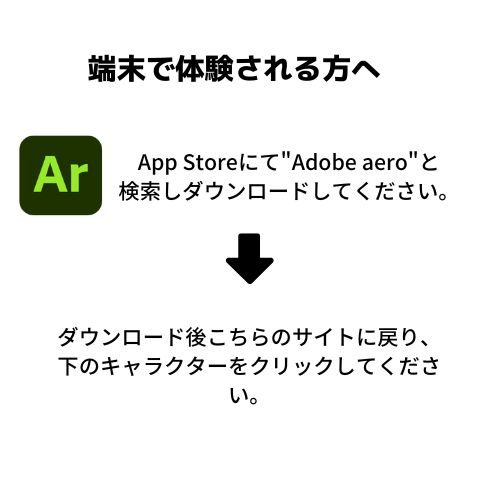
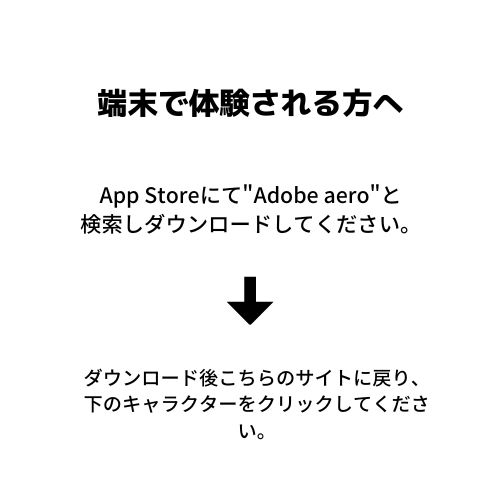
Add files via upload

Changed region(s): [[0.03, 0.27, 0.9, 0.87], [0.18, 0.09, 0.81, 0.24]]

diff --git a/index.html b/index.html
@@ -9,9 +9,14 @@
     <link rel="preconnect" href="https://fonts.googleapis.com">
     <link rel="preconnect" href="https://fonts.gstatic.com" crossorigin>
     <link href="https://fonts.googleapis.com/css2?family=Oswald:wght@300;400&display=swap" rel="stylesheet">
+    <script src="https://ajax.googleapis.com/ajax/libs/jquery/3.4.1/jquery.min.js"></script>
+
+
 
 </head>
 <body>
+
+
 
     <div class="header">
 
@@ -48,7 +53,7 @@
     <br>
 
     <div class="news2">
-        <h2>マルグリット祭　News</h2>
+        <h2>NEWS</h2>
     </div>
     
     
@@ -80,9 +85,9 @@
     <br>
     <br>
     <br>
+    <br>
     
-    
-    <h2>Service </h2>
+    <h2>SERVICE</h2>
     
 <div class="about">
 
@@ -90,7 +95,7 @@
     <li>
         <a href="Caritas Lab.mp4"><img src="Caritas web site .png" alt="crtsmovie"></a>
         <h3>MOVIE</h3>
-        <p>Caritas Lab紹介動画はこちら</p>
+        <p>Caritas Lab紹介動画はこちら<br>※音楽が流れます。ご注意ください。</p>
     </li>
 </ul>
 
@@ -122,9 +127,15 @@
 
 </div> 
 
+<br><br>
 
+<h2>FORM</h2>
+<p>サービスを利用しての感想、改善点等ありましたらこちらからお願い致します。 </p>
+<h2>
+    <iframe src="https://docs.google.com/forms/d/e/1FAIpQLSewcrHGvCPG4fc6I5-ez7jmZ9MfAmr7VI8Jm7R63BpW2TfLEQ/viewform?embedded=true" width="640" height="382" frameborder="0" marginheight="0" marginwidth="0" >読み込んでいます…</iframe>
+</h2>
 
-<br>
+<br><br>
 
 <div class="sakuseisya">
 <p>2022 CARITAS LAB. </p>

diff --git a/ARpage.html b/ARpage.html
@@ -13,16 +13,11 @@
     <br>
         <h2>英語室6にてカリタスのキャラクターを<br>ARにて体験する事が可能です。<br> 英語室6までのマップは<a href="https://caritaslab.github.io/startsite/map.html">こちら</a></h2>
 
-
-        <img src="shikiri.jpg" width="100%">
-
         <img src="AR.jpg" width="100%">
        
 <div class="about">
-
     <ul>
         <li>
-            <h3>↓るぱお↓</h3>
             <a href=""><img src="ha-to.jpg" alt="" width="100%"></a>
             
         </li>
@@ -31,14 +26,14 @@
     
     <ul>
             <li>
-            <h3>↓ひぐこ↓</h3>
+            
             <a href=""><img src="kuma.jpg" alt="AR" width="100%"></a>
              
     </ul>
 
     <ul>
         <li>
-        <h3>↓るぱお↓</h3>
+        
         <a href=""><img src="hiyoko.jpg" alt="AR" width="100%"></a>
      
 </ul>

diff --git a/ARpage.css b/ARpage.css
@@ -11,12 +11,12 @@ body{
 
 h1{
     text-align: center;
-    font-size:50px;
+    font-size:65px;
     font-family: 'Oswald', sans-serif;
     font-weight: normal;
     letter-spacing: 1px;
     line-height: 1.3;
-    color:rgb(51, 71, 139);
+    color:rgb(58, 66, 92);
   
     
 }
@@ -27,15 +27,16 @@ h1{
     font-weight: normal;
 }
 h2{
-    font-size:20px;
+    font-size:18px;
     text-align: center;
     font-weight: normal;
+    color:rgb(34, 57, 230);
 }
 
 .about h3{
-    font-size:25px;
+    font-size:30px;
     text-align: center;
-    color:rgb(51, 71, 139);
+    color:rgb(58, 66, 92);
 }
 
 
@@ -45,6 +46,7 @@ h2{
 p{
     font-size:18px;
     text-align: center;
+    
 }
 
 

diff --git a/style.css b/style.css
@@ -78,11 +78,16 @@ h2{
     margin-top: 50px;
     font-size:60px;
     letter-spacing: 10px;
+    color:#1a274e;
+
 
 }
 
 
-
+p{
+    text-align: center;
+    font-size:20px;
+}
 
 
 .about{
